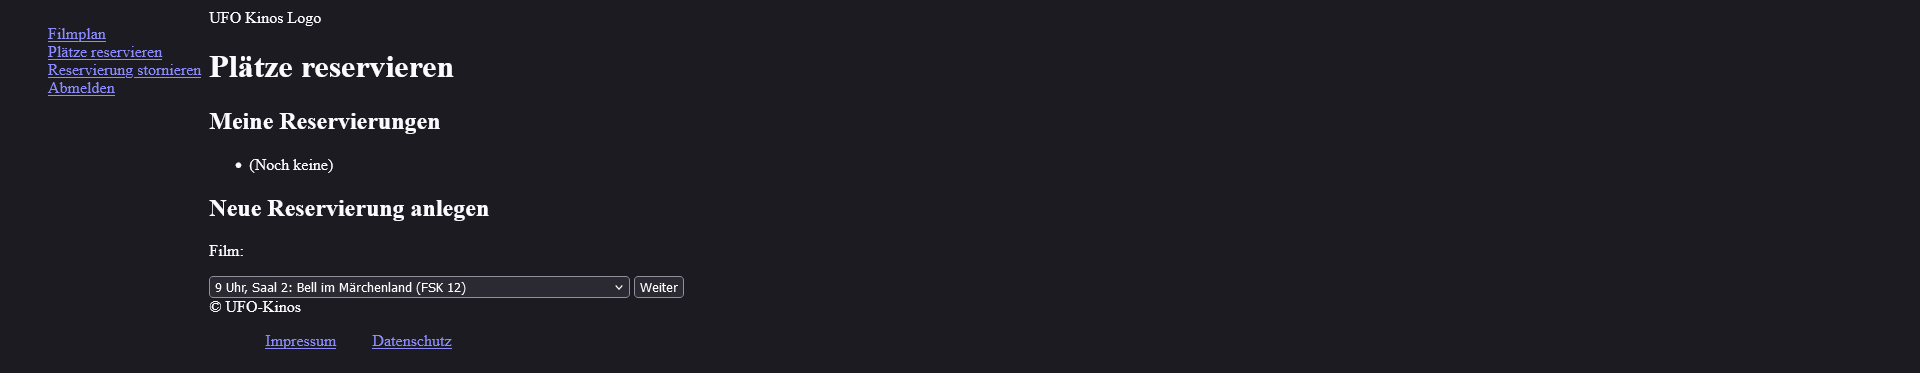
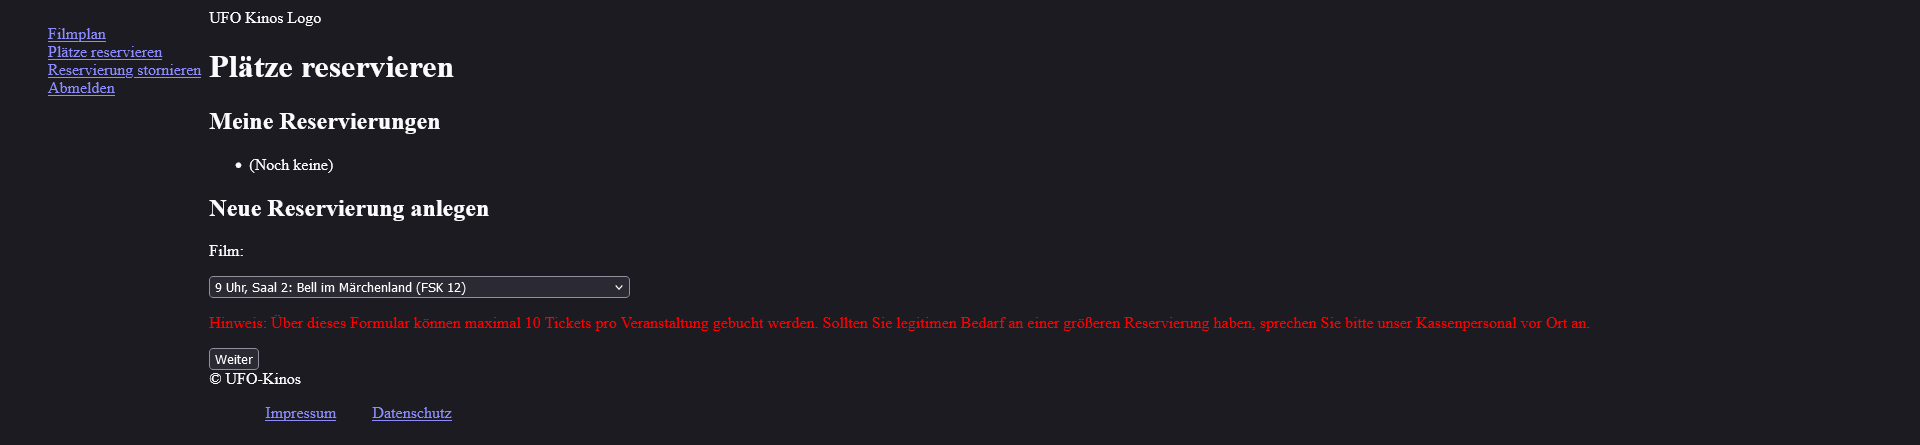
GUI-Entwurf finalisiert
Anpassungen an das Meeting vom Montag (22.04.2024 09:15 Uhr)

diff --git a/src/main/asciidoc/models/analysis/GUI-Entwurf/reserve-tickets-2-renderer-user.html b/src/main/asciidoc/models/analysis/GUI-Entwurf/reserve-tickets-2-renderer-user.html
@@ -50,6 +50,7 @@
                         </div>
                         <p class="flex">Derzeitige Zwischensumme: <span class="grow"></span>19.99€</p>
                         <h2>Ticket hinzufügen</h2>
+                        <p style="color:red">Hinweis: Über dieses Formular können maximal 10 Tickets pro Veranstaltung gebucht werden. Sollten Sie legitimen Bedarf an einer größeren Reservierung haben, sprechen Sie bitte unser Kassenpersonal vor Ort an.</p>
                         <p>Preisliste:</p>
                         <ul>
                             <li>Platzgruppe 1: Erwachsener 24.99€, Kind (Bis 14 Jahre) 18.99€, Schwerbehinderter 19.99€</li>

diff --git a/src/main/asciidoc/models/analysis/GUI-Entwurf/tickets-change-staff-renderer.html b/src/main/asciidoc/models/analysis/GUI-Entwurf/tickets-change-staff-renderer.html
@@ -82,8 +82,7 @@
                                 <option value="disabled">Schwerbehinderter</option>
                             </select> </p>
                         <hr>
-                        <button name="calculatePricingChange">Preisänderung Berechnen</button>
-                        <p class="flex">Kunde bezahlt: <span class="grow"></span>4€</p>
+                        <p style="color:red">Wichtig: Tickets können nur über dieses Formular umgetauscht werden, wenn Film, Saal, Preiskategorie und Preis gleich bleiben.</p>
                         <button name="changeTickets">Tickets umbuchen</button>
                     </form>
                 </div>

diff --git a/src/main/asciidoc/models/analysis/GUI-Entwurf/reserve-tickets-1-renderer-user.html b/src/main/asciidoc/models/analysis/GUI-Entwurf/reserve-tickets-1-renderer-user.html
@@ -58,6 +58,7 @@
                                 <option value="3298409328904328904">10 Uhr, Saal 3: Extra 4's Jannes Müller: Im Kino (FSK 6)</option>
                             </optgroup>
                         </select>
+                        <p style="color:red">Hinweis: Über dieses Formular können maximal 10 Tickets pro Veranstaltung gebucht werden. Sollten Sie legitimen Bedarf an einer größeren Reservierung haben, sprechen Sie bitte unser Kassenpersonal vor Ort an.</p>
                         <button name="next" value="1">Weiter</button>
                     </form>
                 </div>
